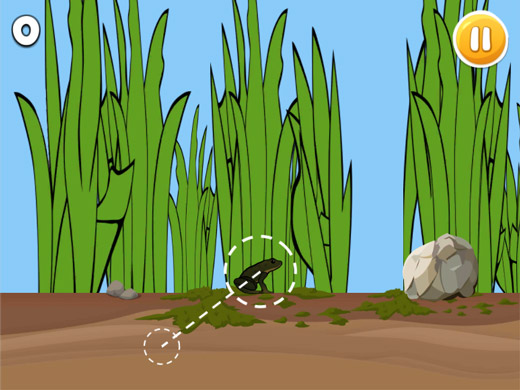
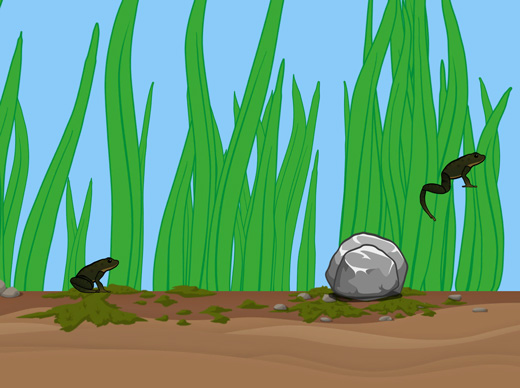
Updated homepage images to latest build

diff --git a/index.html b/index.html
@@ -44,14 +44,14 @@
 				<div class='grid'>
 					<div class='item'>
 						<p>An educational frog lifecycle game for children.</p>
-						<p>Available in your browser. Also on Android and iOS.</p>
+						<p>Available in your browser. Also on iOS, Android and Windows 10.</p>
 						<a class='button' href='/taddypole/'>Play Now</a>
 					</div><div class='item'>
-						<img srcset='img/taddypole/menu_small_2x.jpg 2x' src='img/taddypole/menu_small.jpg' alt='TaddyPole Menu' />
+						<img srcset='img/taddypole/beetle_small_2x.jpg 2x' src='img/taddypole/beetle_small.jpg' alt='Beetle' />
 					</div><div class='item'>
-						<img srcset='img/taddypole/pond_small_2x.jpg 2x' src='img/taddypole/pond_small.jpg' alt='Pond' />
+						<img srcset='img/taddypole/froglet_small_2x.jpg 2x' src='img/taddypole/froglet_small.jpg' alt='Froglet' />
 					</div><div class='item'>
-						<img srcset='img/taddypole/frog_small_2x.jpg 2x' src='img/taddypole/frog_small.jpg' alt='Surface' />
+						<img srcset='img/taddypole/frog_small_2x.jpg 2x' src='img/taddypole/frog_small.jpg' alt='Frog' />
 					</div>
 				</div>
 			</main>
